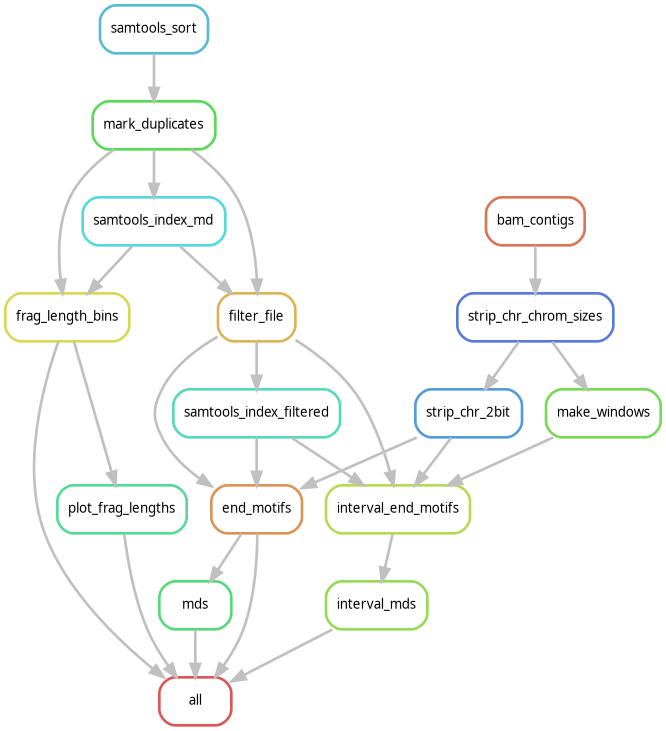
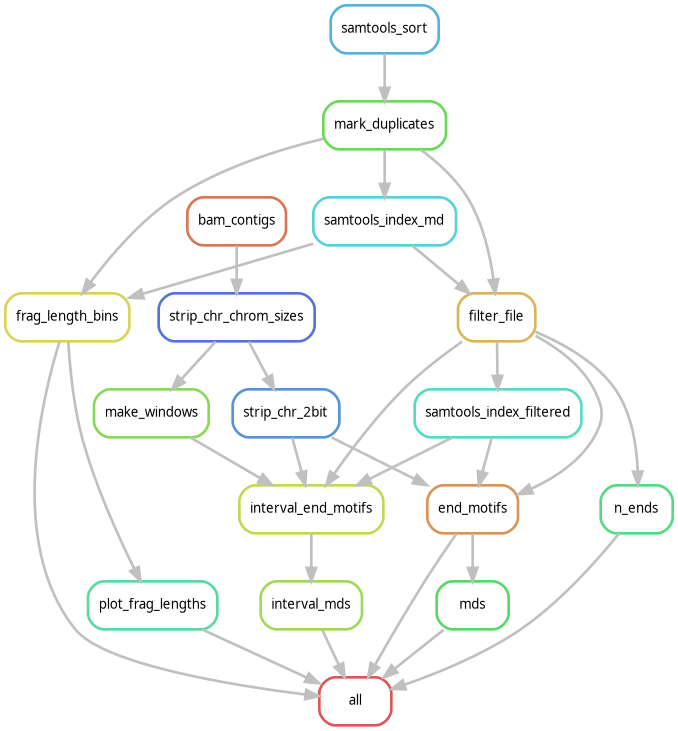
N ends calculation + DAG update

diff --git a/cfdna-finale-snakemake/README.md b/cfdna-finale-snakemake/README.md
@@ -8,6 +8,12 @@ plan in `../End-motif-analysis.md`.
 
 ![Snakemake DAG](dag.png)
 
+Made using
+
+```bash
+snakemake --rulegraph --profile profiles/default | dot -Tpng -o dag.png
+```
+
 ## Inputs
 
 - `config.yaml` — set `refs.genome_2bit` and `refs.chrom_sizes` to hg19 paths
